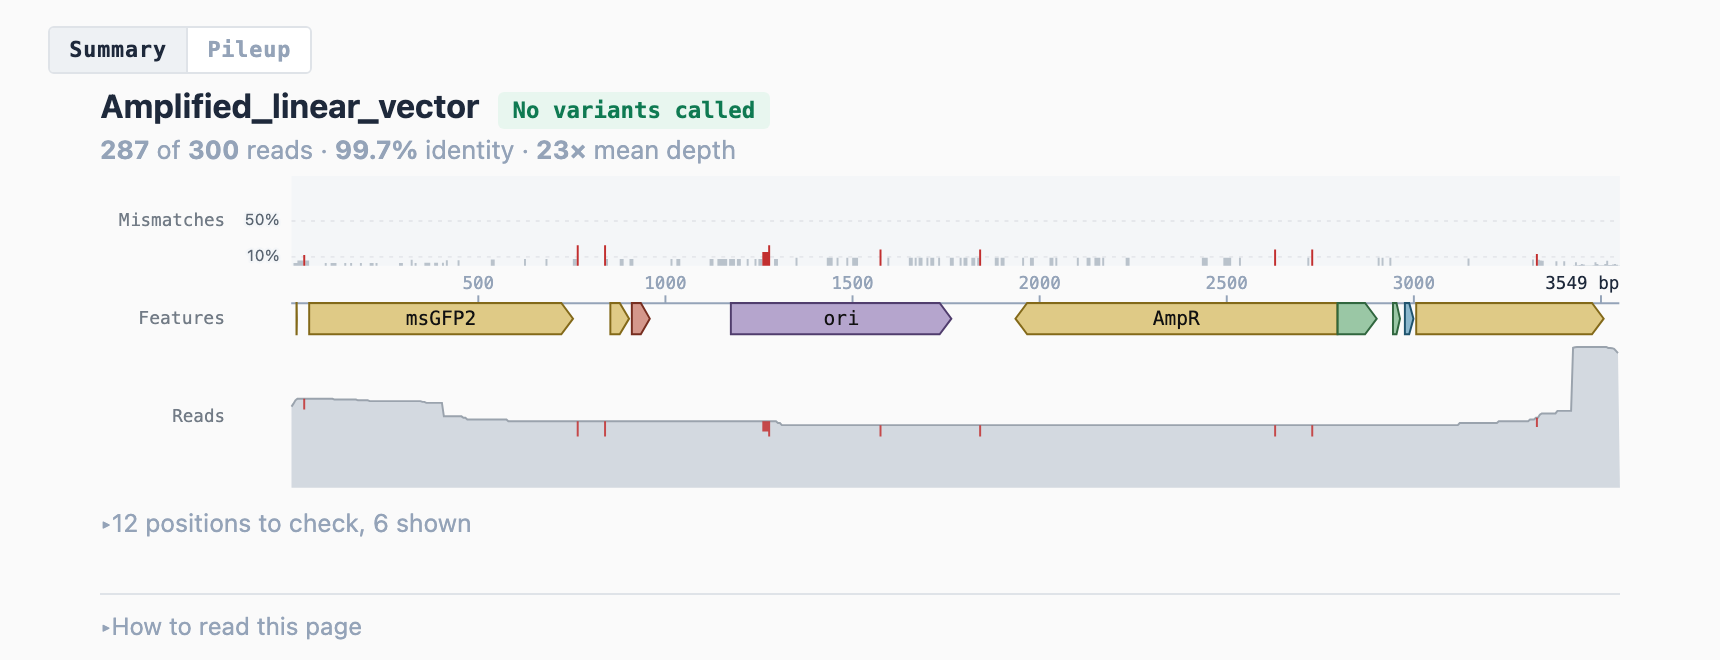
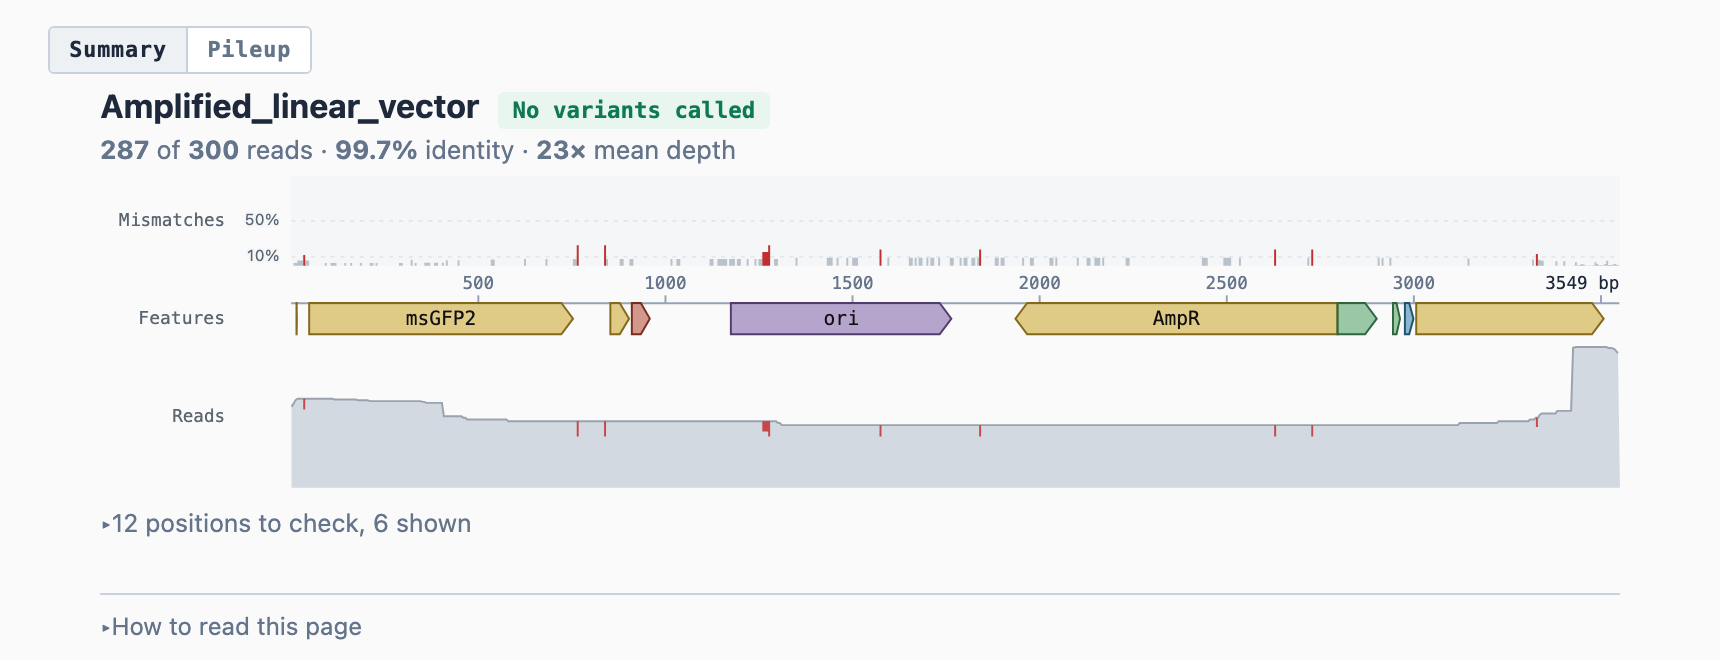
Make the pages readable: fix the swapped greys and four colour bugs
Measured with a probe that walks every text element on both pages, resolves
its effective background through translucent ancestors, and reports the ratio.
Before: 17 of 33 elements on the summary and 7 of 24 on the pileup were below
WCAG AA in light, 13 and 7 in dark.  Now none, in either theme.

The greys were swapped.  Light used slate-400 and dark used slate-500, which
is each theme holding the other's value: 2.46:1 in light where 4.56:1 was
available, 3.58:1 in dark where 6.65:1 was.  That one token carries most of
what the pages say outside the plot -- read counts, ruler labels, row names,
disclosure summaries -- so it accounted for most of the failures on its own.

Four others, each its own bug:

- The variant detail filled feature glyphs with the light colour in both
  themes and then labelled them with the theme's text colour, so dark mode
  put near-white type on a pale glyph at 1.23:1.  Both fills and both label
  inks now ride on the glyph and the stylesheet picks the pair, the way the
  main feature track already did.
- A, C, G and T were set as 11px type in the cell colours, which are chosen
  to be told apart as filled blocks on a grey field.  Orange G measured
  2.87:1 on near-white.  The letters now use ink variants: same hues, walked
  down until they carry as small text.  The canvas keeps the cell colours.
- Bases matching the reference were muted grey at 0.42 opacity, which is
  1.41:1 -- not recessive but absent.  They recede by weight and colour now.
[…]

diff --git a/src/seqviewer/assets/pileup.css b/src/seqviewer/assets/pileup.css
@@ -1,10 +1,14 @@
 :root {
     --__PREFIX__-bg: #fafafa;
     --text: #1e293b;
-    --muted: #94a3b8;
+    /* Supporting text, and most of what the page says outside the plot: read
+       counts, tick labels, row names, disclosure summaries.  slate-500 on this
+       ground is 4.56:1; the slate-400 this replaced was 2.46:1, which is the
+       dark theme's value and unreadable here. */
+    --muted: #64748b;
     --card-bg: #ffffff;
-    --border: #e5e7eb;
-    --panel-line: #dfe3e8;
+    --border: #d7dde5;
+    --panel-line: #c9d2dc;
     --ok: #0f7a52;
     --ok-bg: #e8f6ef;
     --warn: #a1650a;
@@ -22,10 +26,12 @@
 [data-theme="dark"] {
     --__PREFIX__-bg: #1a1a2e;
     --text: #e0e0e0;
-    --muted: #64748b;
+    /* The mirror of the light value: slate-400 is 6.65:1 here where slate-500
+       was 3.58:1.  The two themes had each other's greys. */
+    --muted: #94a3b8;
     --card-bg: #16213e;
-    --border: #334155;
-    --panel-line: #2c3a55;
+    --border: #3b4a63;
+    --panel-line: #46566f;
     --ok: #35c493;
     --ok-bg: #14312a;
     --warn: #e0a355;
@@ -195,7 +201,7 @@ body {
    grid vanishes, leaving a box with one dot that reads as no plate at all. */
 .sv-plate-well { fill: var(--border); stroke: none; }
 .sv-plate-here { fill: var(--text); }
-.sv-plate-title { font: 500 7px var(--mono); fill: var(--muted); }
+.sv-plate-title { font: 500 8px var(--mono); fill: var(--muted); }
 .sv-plate-label { font: 600 8px var(--mono); fill: var(--text); }
 /* The crossfade: the page's own background, drawn over the content.  It starts
    opaque and clears once the page reports it has drawn, so the reader never

diff --git a/src/seqviewer/zoom.py b/src/seqviewer/zoom.py
@@ -33,7 +33,7 @@ from collections import Counter
 from dataclasses import dataclass, field
 from typing import List, Optional, Sequence, Tuple
 
-from .annotate import feature_colors
+from .annotate import drawn_fill, feature_colors, label_color
 from .codon import translate_codon
 from .construct import Feature
 from .grid import Row
@@ -282,11 +282,22 @@ def window_svg(
         w = (right - left) * CELL_W
         light, dark = feature_colors(feature)
         name = feature.label or feature.type
+        # A feature's colour comes from the file, so it cannot be swapped by
+        # redefining a token.  Both fills and both label inks ride on the group
+        # as custom properties, and the stylesheet picks the pair for the
+        # theme.  The label is chosen against the glyph *as drawn* -- part
+        # transparent over the ground -- which is why the dark ink is not
+        # simply the page's text colour: filling with the light colour in both
+        # themes put near-white type on a pale glyph at 1.23:1.
+        style = (f"--{prefix}-fl:{light};--{prefix}-fd:{dark};"
+                 f"--{prefix}-ll:{label_color(drawn_fill(light, 'light', FEATURE_FILL))};"
+                 f"--{prefix}-ld:{label_color(drawn_fill(dark, 'dark', FEATURE_FILL))}")
         parts.append(
-            f'<g class="{prefix}-feat"><title>{_e(name)} '
+            f'<g class="{prefix}-feat" style="{style}">'
+            f'<title>{_e(name)} '
             f'({feature.start + 1}\u2013{feature.end})</title>'
             f'<rect x="{x:.1f}" y="{feature_y:.1f}" width="{w:.1f}" '
-            f'height="{FEATURE_H:.1f}" fill="{light}" '
+            f'height="{FEATURE_H:.1f}" '
             f'fill-opacity="{FEATURE_FILL}" rx="2" />'
         )
         # The label goes in only where it fits: a name wider than the span it
@@ -436,15 +447,22 @@ svg.{prefix} {{ display: block; max-width: 100%; height: auto; }}
 .{prefix}-pos {{ font-size: 9px; fill: var(--muted); font-family: var(--mono); }}
 .{prefix}-ref {{ fill: var(--{t}-tick-label); font-weight: 700; }}
 .{prefix}-hot {{ fill: var(--{t}-mm); opacity: 0.13; }}
+.{prefix}-feat rect {{ fill: var(--{prefix}-fl); }}
+[data-theme="dark"] .{prefix}-feat rect {{ fill: var(--{prefix}-fd); }}
 .{prefix}-featlabel {{
-    font: 600 {FEATURE_LABEL:.0f}px var(--mono); fill: var(--{t}-text);
+    font: 600 {FEATURE_LABEL:.0f}px var(--mono); fill: var(--{prefix}-ll);
 }}
-.{prefix}-same {{ fill: var(--muted); opacity: 0.42; }}
+[data-theme="dark"] .{prefix}-featlabel {{ fill: var(--{prefix}-ld); }}
+/* Bases matching the reference are context, not findings, so they recede.
+   The recession is now carried by weight and colour -- grey and regular
+   against bold and coloured -- rather than by opacity, which at 0.42 left
+   them at 1.41:1: not recessive but absent. */
+.{prefix}-same {{ fill: var(--muted); }}
 .{prefix}-b {{ font-weight: 700; }}
-.{prefix}-a {{ fill: var(--{t}-a); }}
-.{prefix}-t {{ fill: var(--{t}-t); }}
-.{prefix}-c {{ fill: var(--{t}-c); }}
-.{prefix}-g {{ fill: var(--{t}-g); }}
+.{prefix}-a {{ fill: var(--{t}-a-ink); }}
+.{prefix}-t {{ fill: var(--{t}-t-ink); }}
+.{prefix}-c {{ fill: var(--{t}-c-ink); }}
+.{prefix}-g {{ fill: var(--{t}-g-ink); }}
 .{prefix}-n {{ fill: var(--muted); }}
 .{prefix}-del {{ fill: var(--{t}-bad); }}
 .{prefix}-rdel {{ fill: var(--{t}-bad); opacity: 0.65; }}

diff --git a/src/seqviewer/render_summary.py b/src/seqviewer/render_summary.py
@@ -736,17 +736,20 @@ def _shell(view: SummaryView, palette: dict, body: str, track_css: str,
 :root {{
     --{prefix}-bg: #fafafa;
     --text: #1e293b;
-    --muted: #94a3b8;
+    /* slate-500, 4.56:1 on this ground.  The slate-400 it replaces was the
+       dark theme's value and measured 2.46:1 here, which put the facts line,
+       the ruler and every disclosure summary below AA. */
+    --muted: #64748b;
     --card-bg: #ffffff;
-    --panel-line: #dfe3e8;
+    --panel-line: #c9d2dc;
     --mono: 'SF Mono', SFMono-Regular, Menlo, Consolas, monospace;
 }}
 [data-theme="dark"] {{
     --{prefix}-bg: #1a1a2e;
     --text: #e0e0e0;
-    --muted: #64748b;
+    --muted: #94a3b8;
     --card-bg: #16213e;
-    --panel-line: #2c3a55;
+    --panel-line: #46566f;
 }}
 html, body {{
     background: var(--{prefix}-bg);
@@ -825,8 +828,10 @@ svg.sv-band, svg.sv-map, svg.sv-annot {{
 .sv-mark.sv-neutral path {{ fill: var(--{prefix}-neutral); }}
 .sv-mm-rule {{ stroke: var(--{prefix}-grid); stroke-width: 1;
     stroke-dasharray: 2 3; }}
+/* The three track names. At 0.85 they measured 4.05:1; they name what each
+   row is, so they are read once and have to be legible when they are. */
 .sv-row-label {{
-    fill: var(--{prefix}-neutral); font: 9px var(--mono); opacity: 0.85;
+    fill: var(--{prefix}-neutral); font: 9px var(--mono);
 }}
 .sv-mm-tick {{
     fill: var(--{prefix}-neutral); font-size: 8px;
@@ -899,8 +904,8 @@ svg.sv-band, svg.sv-map, svg.sv-annot {{
     stroke-width: 1.2; }}
 .sv-plate-well {{ fill: var(--{prefix}-depth-edge); stroke: none; }}
 .sv-plate-here {{ fill: var(--{prefix}-tick-label); }}
-.sv-plate-title {{ font: 500 7px ui-monospace, SFMono-Regular, Menlo, monospace;
-    fill: var(--{prefix}-stem); }}
+.sv-plate-title {{ font: 500 8px ui-monospace, SFMono-Regular, Menlo, monospace;
+    fill: var(--muted); }}
 .sv-plate-label {{ font: 600 8px ui-monospace, SFMono-Regular, Menlo, monospace;
     fill: var(--{prefix}-tick-label); }}
 /* The crossfade: the page's own background, drawn over the content.  It starts
@@ -943,7 +948,7 @@ html.sv-leaving .sv-fade {{ opacity: 1; transition: opacity 90ms ease-in; }}
 .sv-ref-label {{
     flex: 0 0 {GUTTER_PCT:.4f}%; box-sizing: border-box;
     padding-right: {LABEL_PCT:.4f}%; padding-bottom: 4px; text-align: right;
-    font: 9px var(--mono); color: var(--{prefix}-neutral); opacity: 0.85;
+    font: 9px var(--mono); color: var(--{prefix}-neutral);
     line-height: 1;
 }}
 .sv-ref-body {{ flex: 1 1 auto; min-width: 0; }}

diff --git a/src/seqviewer/render.py b/src/seqviewer/render.py
@@ -63,11 +63,21 @@ _PALETTE = {
     "light": {
         "match": "#d4d8dc",
         "vector": "#e9ebee",
-        "gap": "#ffffff",
+        # The page's ground, so an uncovered column reads as nothing drawn.
+        "gap": "#fafafa",
         "a": "#e03131",
         "t": "#1971c2",
         "c": "#e8590c",
         "g": "#e67700",
+        # The same four as type rather than as cells.  A filled cell has only
+        # to be told from its neighbours and sits on a grey field; the variant
+        # detail sets these as 11px letters on near-white, where the orange of
+        # G measured 2.87:1.  Same hues, walked down in lightness until they
+        # carry as small text.
+        "a-ink": "#d12b2b",
+        "t-ink": "#1971c2",
+        "c-ink": "#c24a09",
+        "g-ink": "#a85700",
         "boundary": "#d97706",
         "region": "rgba(56,132,255,0.10)",
         # The focus region reads warm, tied to the boundary colour its
@@ -90,11 +100,22 @@ _PALETTE = {
     "dark": {
         "match": "#4a5568",
         "vector": "#3a4455",
-        "gap": "#ffffff",
+        # A gap is the absence of a read, so it is drawn as the page's own
+        # ground and reads as nothing being there.  White -- the light theme's
+        # value, kept here by oversight -- made every uncovered region the
+        # brightest thing on a dark page, so the eye went to where there was
+        # no data.
+        "gap": "#1a1a2e",
         "a": "#ff6b6b",
         "t": "#339af0",
         "c": "#ffa94d",
         "g": "#ffd43b",
+        # On the dark ground the cell colours already carry as type, so the
+        # inks are the same four rather than a second set to keep in step.
+        "a-ink": "#ff6b6b",
+        "t-ink": "#339af0",
+        "c-ink": "#ffa94d",
+        "g-ink": "#ffd43b",
         "boundary": "#f59e0b",
         "region": "rgba(120,170,255,0.16)",
         # The focus region reads warm, tied to the boundary colour its

diff --git a/tests/test_zoom.py b/tests/test_zoom.py
@@ -221,8 +221,12 @@ def test_the_prefix_keeps_two_windows_from_colliding():
 
 
 def test_css_follows_the_hosts_token_prefix():
-    assert "var(--app-a)" in window_css(token_prefix="app")
-    assert "var(--cv-a)" in window_css()
+    css = window_css(token_prefix="app")
+    # The letters are set in the ink variants rather than the cell colours:
+    # the same four hues walked down until they carry as 11px type.
+    assert "var(--app-a-ink)" in css
+    assert "var(--app-tick-label)" in css
+    assert "var(--cv-a-ink)" in window_css()
 
 
 def test_a_window_reports_its_own_geometry():

diff --git a/src/seqviewer/plate.py b/src/seqviewer/plate.py
@@ -34,7 +34,9 @@ _INSET = 3.0
 _CHAMFER = 5.0
 
 #: Height of the title line over the plate, and of the label line under it.
-_TITLE_H = 11.0
+#: Both hold 8px type: 7px measured legible only at full size, and the map is
+#: drawn at whatever width its corner allows.
+_TITLE_H = 12.0
 _LABEL_H = 11.0
 
 _WELL_RE = re.compile(r"^([A-Za-z])0*([1-9][0-9]?)$")
